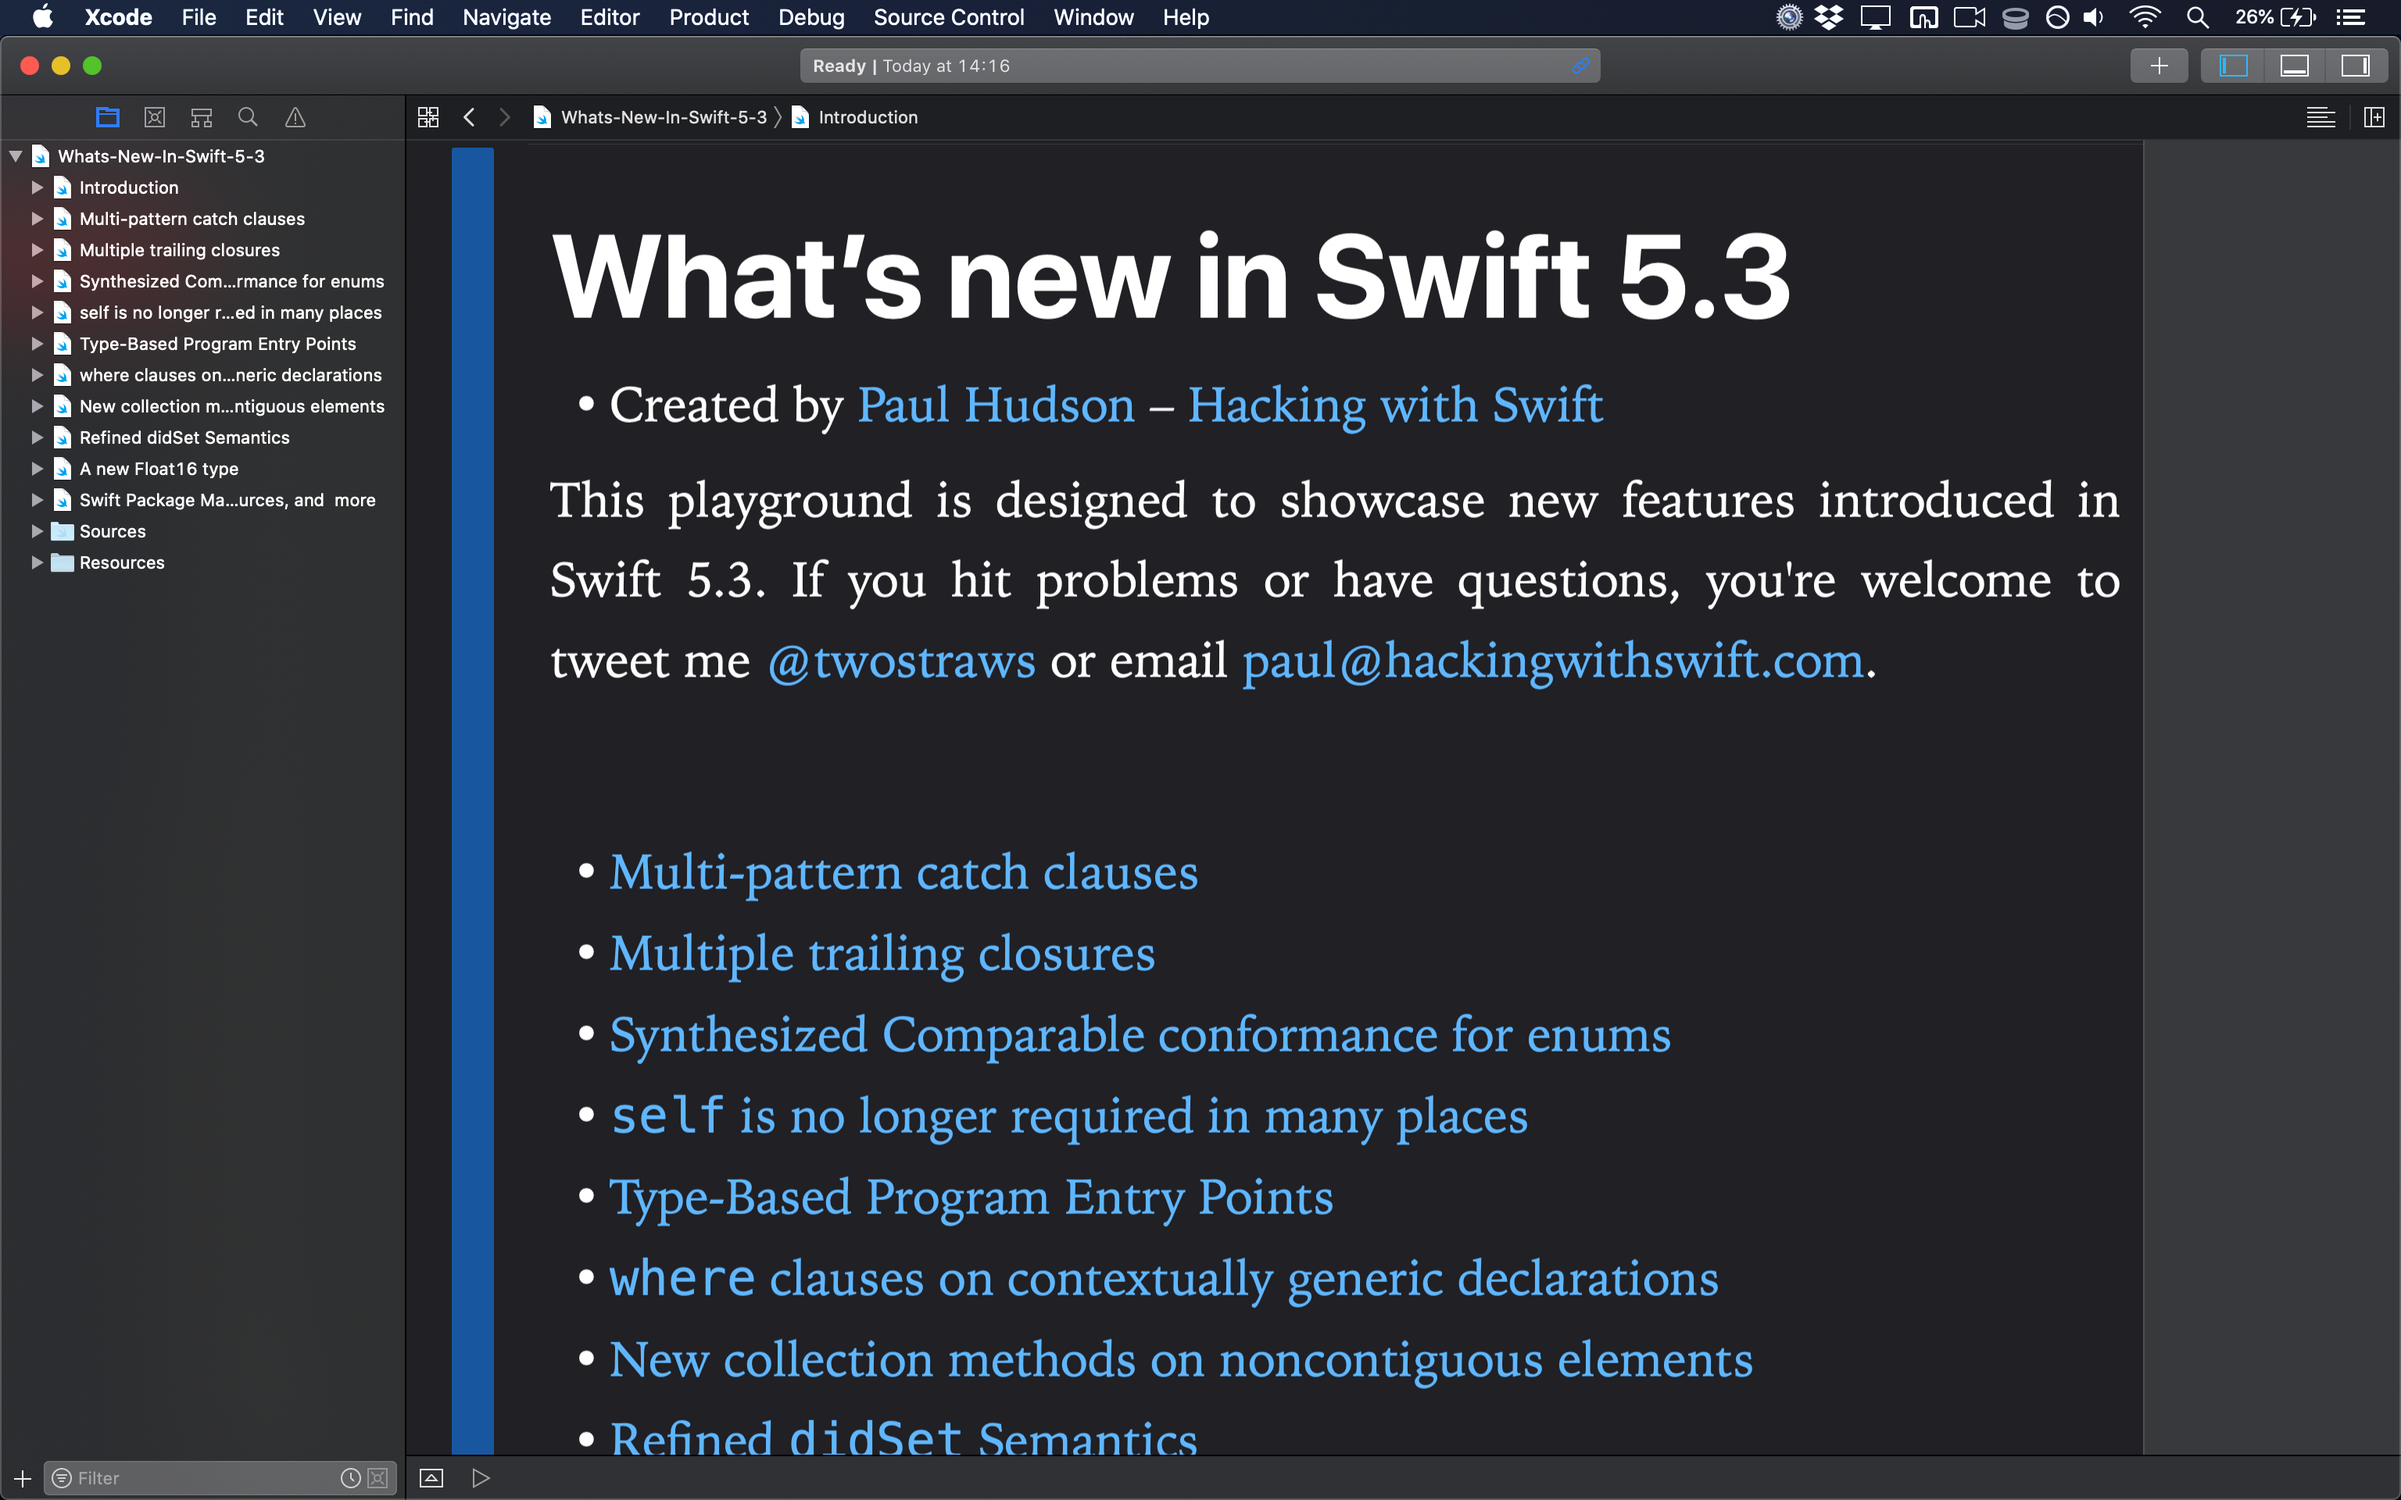
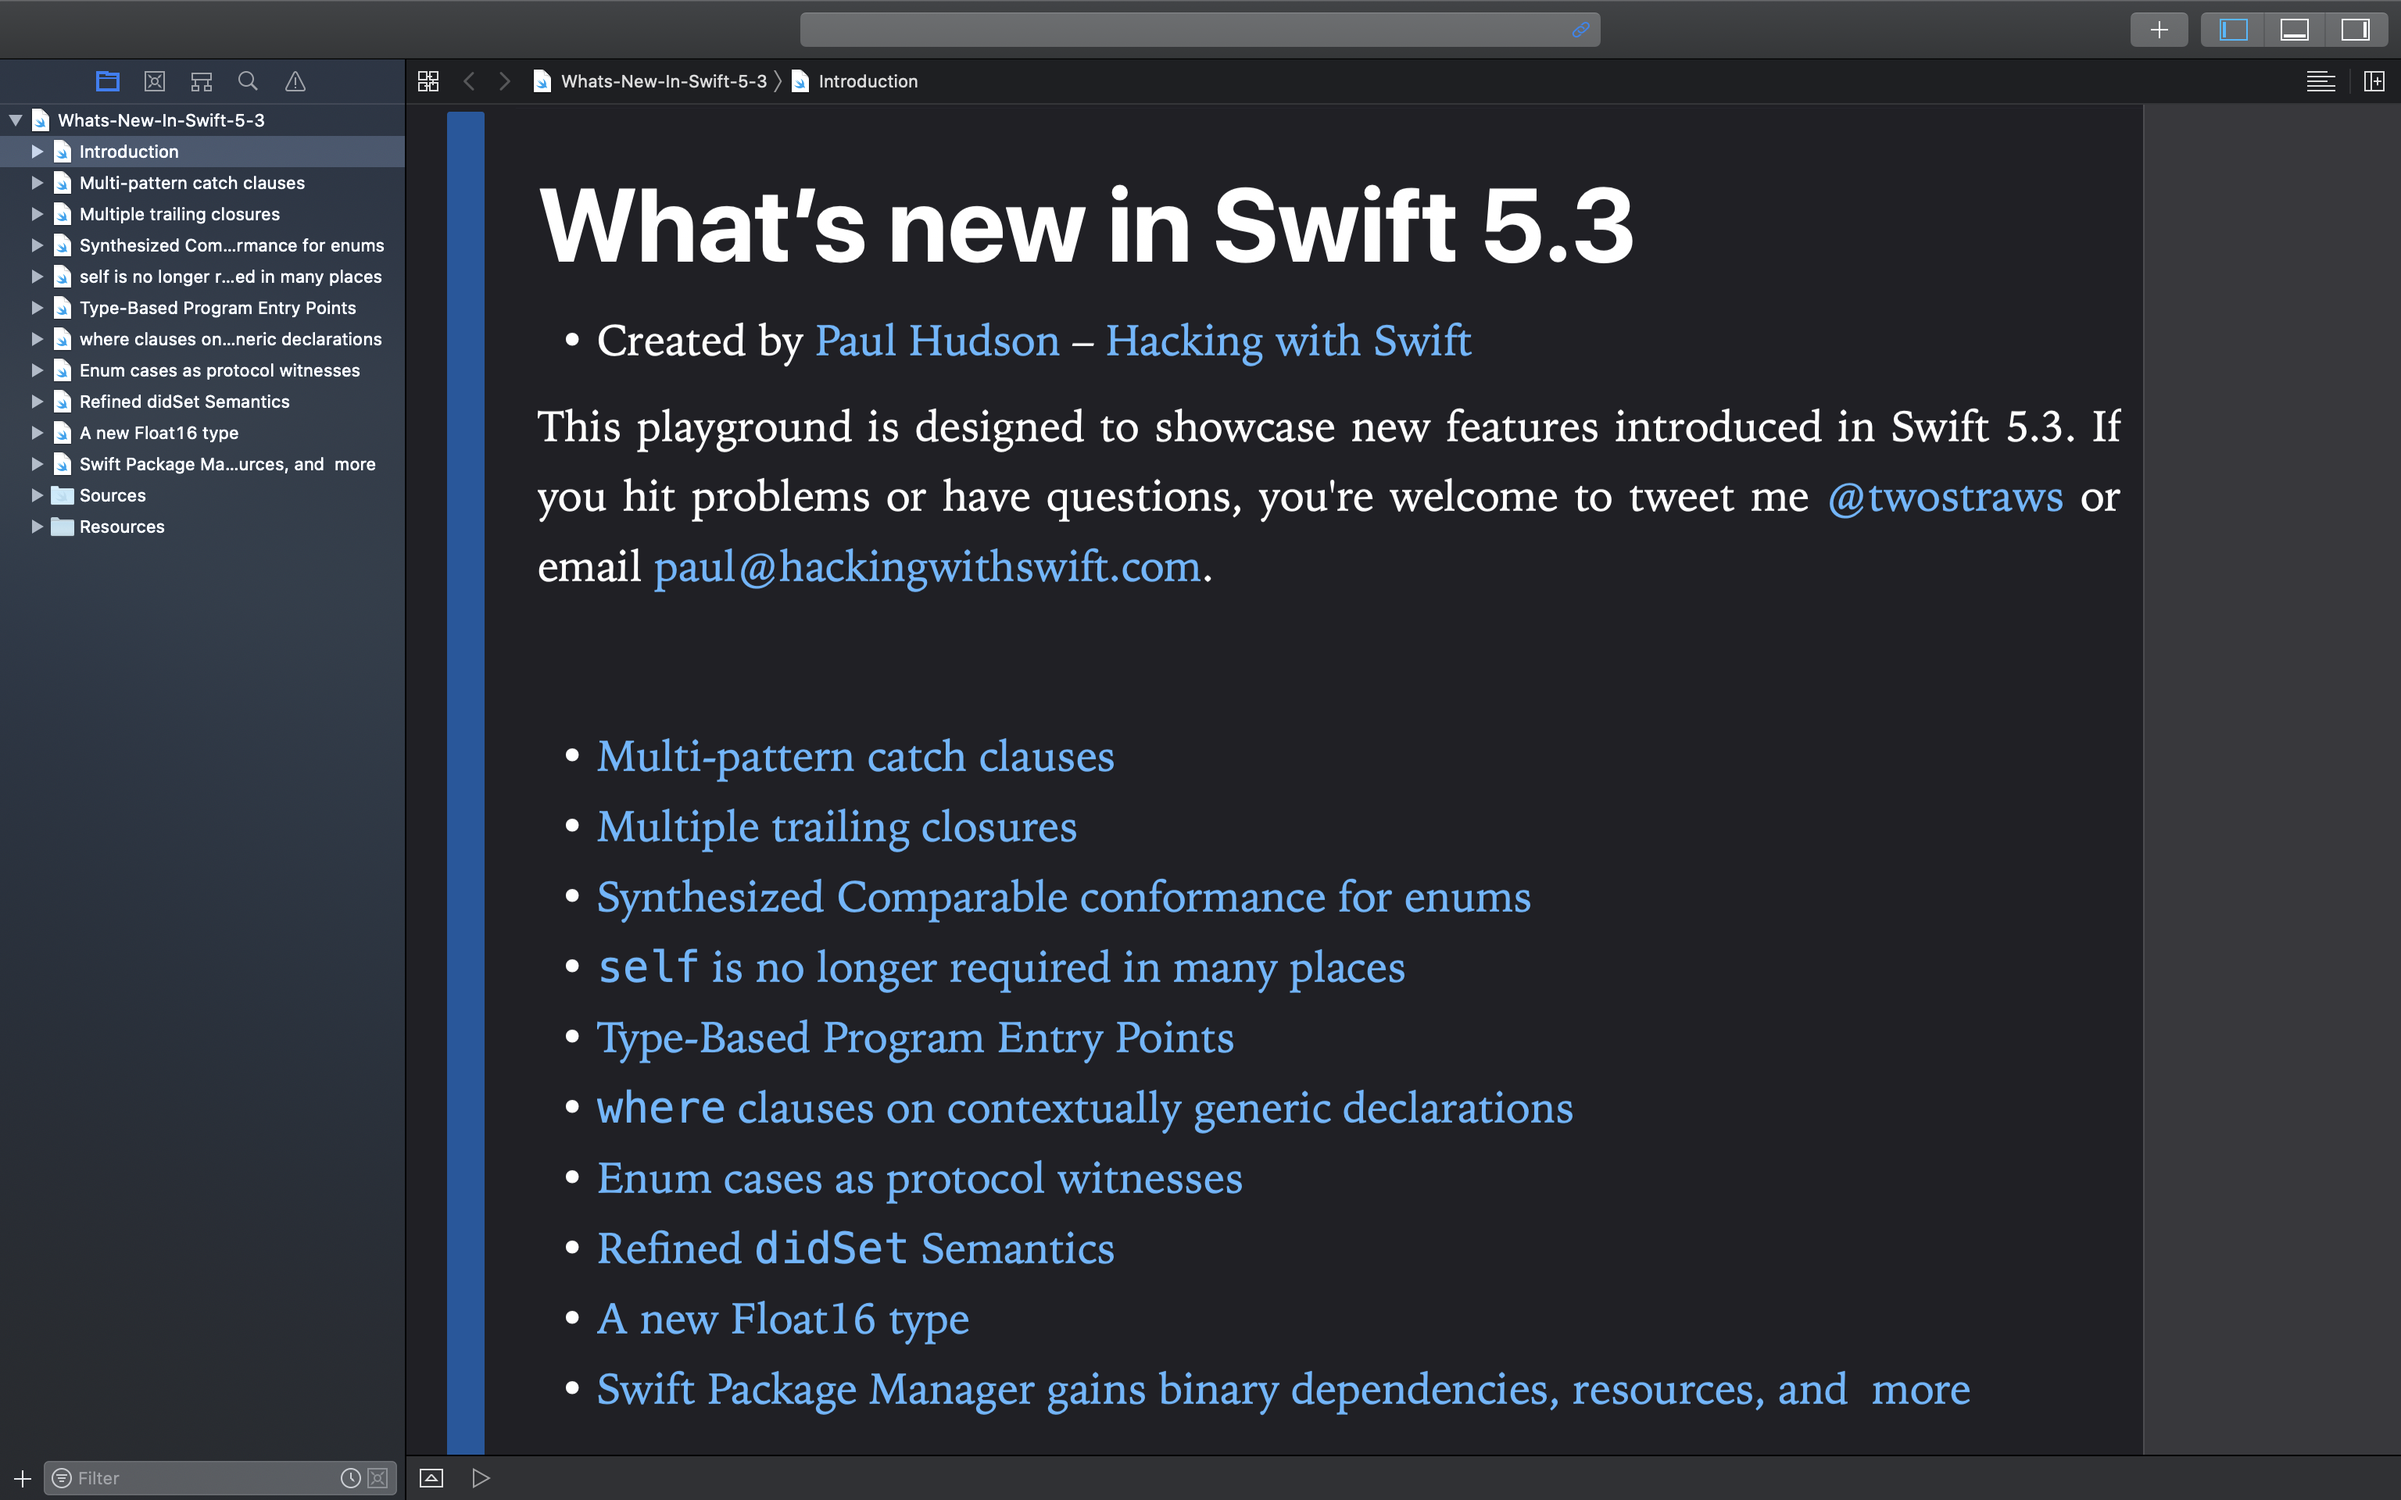
SE-0270 has been moved to previewing; adding SE-0280.

Changed region(s): [[0.0, 0.0, 1.0, 0.9688]]

diff --git a/Whats-New-In-Swift-5-3.playground/Pages/Enum cases as protocol witnesses.xcplaygroundpage/Contents.swift b/Whats-New-In-Swift-5-3.playground/Pages/Enum cases as protocol witnesses.xcplaygroundpage/Contents.swift
@@ -1,0 +1,45 @@
+/*:
+
+
+&nbsp;
+
+[< Previous](@previous)           [Home](Introduction)           [Next >](@next)
+# Enum cases as protocol witnesses
+
+[SE-0280](https://github.com/apple/swift-evolution/blob/master/proposals/0280-enum-cases-as-protocol-witnesses.md) allows enums to participate in protocol witness matching, which is a technical way of saying they can now match requirements of protocols more easily.
+
+For example, you could write code to handle various types of data, but what if that data were missing? Sure, you could use something like nil coalescing to provide a default value every time, but you could also make a protocol that requires a default value, then make various types conform to it with whatever default values you wanted:
+*/
+protocol Defaultable {
+    static var defaultValue: Self { get }
+}
+    
+// make integers have a default value of 0
+extension Int: Defaultable {
+    static var defaultValue: Int { 0 }
+}
+    
+// make arrays have a default of an empty array
+extension Array: Defaultable {
+    static var defaultValue: Array { [] }
+}
+    
+// make dictionaries have a default of an empty dictionary
+extension Dictionary: Defaultable {
+    static var defaultValue: Dictionary { [:] }
+}
+/*:
+What SE-0280 allows us to do is exactly the same thing just for enums. For example, you want to create a `padding` enum that can take some number of pixels, some number of centimeters, or a default value decided by the system:
+*/
+enum Padding: Defaultable {
+    case pixels(Int)
+    case cm(Int)
+    case defaultValue
+}
+/*:
+That kind of code wouldn’t have been possible before SE-0280 – Swift would have said that `Padding` doesn’t satisfy the protocol. However, if you think it through the protocol really *is* satisfied: we said it needs a static `defaultValue` that returns `Self`, i.e. whatever concrete type is conforming to the protocol, and that’s exactly what `Padding.defaultValue` does.
+
+&nbsp;
+
+[< Previous](@previous)           [Home](Introduction)           [Next >](@next)
+*/

diff --git a/Whats-New-In-Swift-5-3.playground/Pages/Introduction.xcplaygroundpage/Contents.swift b/Whats-New-In-Swift-5-3.playground/Pages/Introduction.xcplaygroundpage/Contents.swift
@@ -14,7 +14,7 @@
  * [`self` is no longer required in many places](self%20is%20no%20longer%20required%20in%20many%20places)
  * [Type-Based Program Entry Points](Type-Based%20Program%20Entry%20Points)
  * [`where` clauses on contextually generic declarations](where%20clauses%20on%20contextually%20generic%20declarations)
- * [New collection methods on noncontiguous elements](New%20collection%20methods%20on%20noncontiguous%20elements)
+ * [Enum cases as protocol witnesses](Enum%20cases%20as%20protocol%20witnesses)
  * [Refined `didSet` Semantics](Refined%20didSet%20Semantics)
  * [A new Float16 type](A%20new%20Float16%20type)
  * [Swift Package Manager gains binary dependencies, resources, and  more](Swift%20Package%20Manager%20gains%20binary%20dependencies,%20resources,%20and%20%20more)

diff --git a/README.md b/README.md
@@ -8,7 +8,7 @@ This is an Xcode playground that demonstrates the new features introduced in Swi
 * `self` is no longer required in many places
 * Type-Based Program Entry Points
 * `where` clauses on contextually generic declarations
-* New collection methods on noncontiguous elements
+* Enum cases as protocol witnesses
 * Refined `didSet` Semantics
 * A new `Float16` type
 * Swift Package Manager gains binary dependencies, resources, and more
@@ -17,4 +17,4 @@ This is designed to complement my existing article [What’s New in Swift 5.3](h
 
 If you hit problems or have questions, you're welcome to tweet me [@twostraws](https://twitter.com/twostraws) or email <paul@hackingwithswift.com>.
 
-![Screenshot of Xcode 11.4 running this playground.](playground-screenshot.png)
+![Screenshot of Xcode 11.5 running this playground.](playground-screenshot.png)
